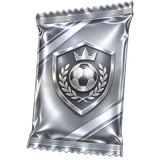
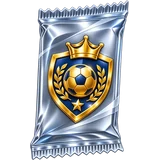
Arte 3D generado con IA: iconos del menú, de pestañas y secciones, sobres y monedas
- Menú inferior, pestañas (equipo, liga, mercado, club) y títulos con iconos 3D.
- Tokens y dinero con la gema y las monedas de la ruleta.
- Sobres de bronce, plata y oro como imágenes (también en la ruleta y en la imagen del bot).

Claude-Session: https://claude.ai/code/session_01JSMFEyxoDu9E63CPmBrdLt

diff --git a/public/app.js b/public/app.js
@@ -53,10 +53,14 @@ const NAV = {
   mercado: DUO('<path d="M4 8.5h13.5"/><path d="m14 5 3.5 3.5L14 12"/><path d="M20 15.5H6.5"/><path d="m10 12-3.5 3.5L10 19"/>'),
   club: DUO('<path d="M12 3 4.5 5.8v6c0 4.4 3.1 7.6 7.5 9.2 4.4-1.6 7.5-4.8 7.5-9.2v-6z" fill="currentColor" fill-opacity=".22"/><path d="M12 3v18M4.6 11h14.8"/>')
 };
+/* iconos 3D de las pestañas y secciones (generados con IA, en img/ui) */
+const SUBI = { xi: 'ui/pizarra', squad: 'ui/nav-equipo', train: 'ruleta/r9', tabla: 'ui/nav-liga', jornadas: 'ui/calendario', copa: 'comp/copa', champions: 'comp/champions', muro: 'ui/megafono', goles: 'premios/bota', clubes: 'ui/nav-club', subastas: 'ui/mazo', sobres: 'ui/sobre-oro', libres: 'ui/prismaticos', equipos: 'ui/nav-mercado', ofertas: 'ui/apreton', eco: 'ui/finanzas', inst: 'ui/grua', vit: 'ui/vitrina', tok: 'ruleta/r5', club: 'ui/nav-club' };
+const subI = k => SUBI[k] ? `<img class="si" src="img/${SUBI[k]}.webp" alt="" aria-hidden="true">` : '';
+const hI = n => `<img class="hi" src="img/ui/${n}.webp" alt="" aria-hidden="true">`;
 /* iconos propios: gema de tokens y moneda de euro, dibujados a mano */
 const IC = {
-  gem: '<svg class="ic" viewBox="0 0 24 24" aria-hidden="true"><path d="M6.6 3.5h10.8L21.5 9 12 21 2.5 9z" fill="#1aa85a"/><path d="M2.5 9h19L12 21z" fill="#0e7c41"/><path d="M6.6 3.5 8.7 9h6.6l2.1-5.5z" fill="#6ef0a2"/><path d="M8.7 9 12 21l3.3-12z" fill="#22c46b"/><path d="M6.6 3.5 2.5 9h6.2zM17.4 3.5 21.5 9h-6.2z" fill="#3ddc84"/><path d="M6.6 3.5h10.8L21.5 9 12 21 2.5 9z" fill="none" stroke="#052e17" stroke-width="1.1" stroke-linejoin="round"/><path d="M9 5.2h3" stroke="#e6fff0" stroke-width="1.3" stroke-linecap="round"/></svg>',
-  coin: '<svg class="ic" viewBox="0 0 24 24" aria-hidden="true"><ellipse cx="12" cy="13.6" rx="9" ry="8.4" fill="#a85f00"/><ellipse cx="12" cy="12" rx="9" ry="8.4" fill="#ffc23d"/><ellipse cx="12" cy="12" rx="6.6" ry="6.1" fill="#f5a20c"/><path d="M14.6 8.9a3.6 3.6 0 1 0 0 6.2M8.3 11h4.6M8.3 13.1h4.6" fill="none" stroke="#fff3c4" stroke-width="1.6" stroke-linecap="round"/><path d="M12 3.6a9 8.4 0 0 1 8.2 5" fill="none" stroke="#fff3c4" stroke-width="1" stroke-linecap="round" opacity=".7"/></svg>',
+  gem: '<img class="ic ic3" src="img/ruleta/r5.webp" alt="" aria-hidden="true">',
+  coin: '<img class="ic ic3" src="img/ruleta/r3.webp" alt="" aria-hidden="true">',
   play: '<svg class="ic" viewBox="0 0 24 24" aria-hidden="true"><path d="M7 4.5v15l12.5-7.5z" fill="currentColor"/></svg>',
   x: '<svg class="ic" viewBox="0 0 24 24" aria-hidden="true"><path d="M6 6l12 12M18 6 6 18" stroke="currentColor" stroke-width="2.4" stroke-linecap="round"/></svg>',
   med: '<svg class="ic" viewBox="0 0 24 24" aria-hidden="true"><rect x="3" y="3" width="18" height="18" rx="4" fill="#ec4d55"/><path d="M12 7v10M7 12h10" stroke="#fff" stroke-width="3" stroke-linecap="round"/></svg>',
@@ -384,7 +388,7 @@ function objectiveHTML() {
   if (!D.my) return '';
   const o = objective(D.myIdx, D.Sx);
   const st = o.done ? (o.met ? `<b class="pos-amt">¡Cumplido!</b> +${money(OBJ_PRIZE.cash)} y +${OBJ_PRIZE.tok} tokens` : '<b class="neg-amt">No cumplido</b>. La directiva espera más la próxima temporada.') : o.pos ? `Vas ${o.pos}º · ${o.onTrack ? '<b class="pos-amt">dentro del objetivo</b>' : '<b class="neg-amt">fuera del objetivo</b>'}` : 'Empieza la temporada.';
-  return `<section class="panel obj">${prizeImg('medalla', 64)}<div><h3>Objetivo de la directiva</h3><p class="objt">${o.txt}</p><p class="small mute">${st}${o.done ? '' : ` · Premio: ${money(OBJ_PRIZE.cash)} y ${OBJ_PRIZE.tok} ${IC.gem}`}</p></div></section>`;
+  return `<section class="panel obj">${prizeImg('medalla', 64)}<div><h3>${hI('diana')}Objetivo de la directiva</h3><p class="objt">${o.txt}</p><p class="small mute">${st}${o.done ? '' : ` · Premio: ${money(OBJ_PRIZE.cash)} y ${OBJ_PRIZE.tok} ${IC.gem}`}</p></div></section>`;
 }
 /* prensa de la liga: noticias que publica el bot (imágenes de los medios ficticios y crónicas en texto) */
 const agoTxt = t => { const m = Math.round((Date.now() - t) / 60000); return m < 1 ? 'ahora' : m < 60 ? 'hace ' + m + ' min' : m < 1440 ? 'hace ' + Math.round(m / 60) + ' h' : 'hace ' + Math.round(m / 1440) + ' d'; };
@@ -394,14 +398,14 @@ function prensaHTML() {
   const item = x => x.img
     ? `<button class="prensa-it" data-act="noticia" data-arg="${esc(x.id)}"><img src="${esc(x.img)}" alt="${esc(x.caption || 'Noticia')}" loading="lazy"><span><b>${esc(x.caption || '')}</b><small class="mute">${agoTxt(x.t)}</small></span></button>`
     : `<button class="prensa-it txt" data-act="noticia" data-arg="${esc(x.id)}"><span><b>${esc(x.caption || 'Crónica')}</b><small class="mute">${agoTxt(x.t)}</small><p>${esc(String(x.text || '').slice(0, 220))}${String(x.text || '').length > 220 ? '…' : ''}</p></span></button>`;
-  return `<section class="panel"><div class="ph"><h3>Prensa de la liga</h3><small class="mute">${list.length ? list.length + ' noticias' : ''}</small></div>
+  return `<section class="panel"><div class="ph"><h3>${hI('periodico')}Prensa de la liga</h3><small class="mute">${list.length ? list.length + ' noticias' : ''}</small></div>
   ${list.length ? `<div class="prensa" tabindex="0" aria-label="Noticias recientes">${list.map(item).join('')}</div>` : '<p class="mute small">Aquí saldrán las portadas, rumores y crónicas de la liga. Las publica el bot cuando la liga está vinculada a vuestro grupo de Telegram (Club → Avisos por Telegram).</p>'}</section>`;
 }
 /* muro de la liga: mensajes cortos entre los amigos */
 function muroHTML(limit) {
   const msgs = Object.values(S.muro || {}).sort((a, b) => b.t - a.t).slice(0, limit);
   const ago = t => { const m = Math.round((Date.now() - t) / 60000); return m < 1 ? 'ahora' : m < 60 ? 'hace ' + m + ' min' : m < 1440 ? 'hace ' + Math.round(m / 60) + ' h' : 'hace ' + Math.round(m / 1440) + ' d'; };
-  return `<section class="panel"><div class="ph"><h3>Muro de la liga</h3>${limit < 50 ? '<button class="btn sm ghost" data-act="go" data-arg="liga:muro">Ver todo</button>' : ''}</div>
+  return `<section class="panel"><div class="ph"><h3>${hI('megafono')}Muro de la liga</h3>${limit < 50 ? '<button class="btn sm ghost" data-act="go" data-arg="liga:muro">Ver todo</button>' : ''}</div>
   ${S.canWrite && D.my ? `<div class="muro-f"><input type="text" id="muro-txt" maxlength="180" placeholder="Pica a tus amigos…" aria-label="Mensaje"><button class="btn sm y" data-act="muro">Enviar</button></div>` : ''}
   <ul class="muro">${msgs.map(x => { const t = S.teams[x.team]; return `<li>${t ? crest(t, 30) : ''}<div><b>${esc(t ? t.name : 'Míster')}</b> <small class="mute">${ago(x.t)}</small><p>${esc(x.txt)}</p></div></li>`; }).join('') || '<li class="mute small">Nadie ha escrito todavía. Rompe el hielo.</li>'}</ul></section>`;
 }
@@ -618,10 +622,7 @@ const zig = (n, h) => { const pts = []; for (let i = 0; i <= n; i++) pts.push(`$
 const PACK_CLIP = zig(22, 7);
 function packArt(kind, big) {
   const P = PACKS[kind];
-  return `<div class="pack pack-${kind}${big ? ' big' : ''}" style="clip-path:${PACK_CLIP}"><div class="pack-in">
-    <span class="pack-top">LIGA DE AMIGOS</span>
-    <svg class="pack-crest" viewBox="0 0 64 72" aria-hidden="true"><path d="M32 2L60 11V36C60 54 47 65 32 70C17 65 4 54 4 36V11Z" fill="rgba(0,0,0,.18)" stroke="rgba(255,255,255,.7)" stroke-width="2"/><circle cx="32" cy="35" r="13" fill="none" stroke="rgba(255,255,255,.85)" stroke-width="2.5"/><path d="M32 26l6 4.5-2.3 7h-7.4L26 30.5z" fill="rgba(255,255,255,.85)"/></svg>
-    <b class="pack-name">${P.name.replace('Sobre ', '')}</b><span class="pack-n">${P.n} ${P.n > 1 ? 'premios' : 'premio'}</span></div></div>`;
+  return `<div class="pack pack-img pack-${kind}${big ? ' big' : ''}"><img src="img/ui/sobre-${kind}.webp" alt="${P.name}" draggable="false"></div>`;
 }
 const rarity = o => o >= 86 ? 'crack' : o >= 80 ? 'oro' : o >= 75 ? 'plata' : 'bronce';
 function prizeCard(x) {
@@ -820,7 +821,7 @@ function header() {
   const my = D?.my, cash = my ? D.fin(D.myIdx).cash : null;
   const title = my ? `<span>${crest(my, 38)}</span><span><b>${esc(my.name)}</b><small>${esc(S.cfg.name)} · T${D.Sx} · J${Math.min(D.revealed.length + (D.live.length ? 1 : 0), D.total)}/${D.total}</small></span>` : `<span><b>${esc(S.cfg?.name || 'Liga de Amigos')}</b><small>${D ? 'Temporada ' + D.Sx + ' · ' + D.n + ' equipos' : 'Fútbol manager entre amigos'}</small></span>`;
   const vales = D && D.my ? Object.values((D.my.packs || {}).vale || {}).reduce((a, n) => a + (n > 0 ? n : 0), 0) : 0, nRul = D && D.my && rulState(D.my).freeOk ? 1 : 0;
-  const nAuc = newAuctions() + vales + (D && D.my && packState(D.my).freeOk ? 1 : 0), tabs = D ? `<nav class="tabs">${[['inicio', 'Inicio'], ['equipo', 'Equipo'], ['liga', 'Liga'], ['mercado', 'Mercado'], ['club', 'Club']].map(([k, l]) => `<button data-act="view" data-arg="${k}" aria-current="${S.view === k}">${NAV[k]}${l}${k === 'mercado' && nAuc ? `<span class="nbadge" aria-label="${nAuc} subastas nuevas">${nAuc}</span>` : ''}${k === 'inicio' && nRul ? '<span class="nbadge" aria-label="Tirada gratis en la ruleta">1</span>' : ''}</button>`).join('')}</nav>` : '';
+  const nAuc = newAuctions() + vales + (D && D.my && packState(D.my).freeOk ? 1 : 0), tabs = D ? `<nav class="tabs">${[['inicio', 'Inicio'], ['equipo', 'Equipo'], ['liga', 'Liga'], ['mercado', 'Mercado'], ['club', 'Club']].map(([k, l]) => `<button data-act="view" data-arg="${k}" aria-current="${S.view === k}"><img class="nv" src="img/ui/nav-${k}.webp" alt="" aria-hidden="true">${l}${k === 'mercado' && nAuc ? `<span class="nbadge" aria-label="${nAuc} subastas nuevas">${nAuc}</span>` : ''}${k === 'inicio' && nRul ? '<span class="nbadge" aria-label="Tirada gratis en la ruleta">1</span>' : ''}</button>`).join('')}</nav>` : '';
   return `<header class="top"><div class="row"><div class="club">${title}</div>${cash != null ? `<button class="tokchip" data-act="go" data-arg="club:tok" aria-label="Tokens: ${D.tok(D.myIdx)}">${IC.gem}${D.tok(D.myIdx)}</button><div class="cash ${cash < 0 ? 'neg' : ''}" aria-label="Caja">${IC.coin}${money(cash)}</div>` : ''}</div>${tabs}</header>`;
 }
 function body() {
@@ -952,7 +953,7 @@ async function claim(id) {
 function teamView() {
   if (!D.my) return pickTeamView();
   const subs = [['xi', 'Alineación'], ['squad', 'Plantilla'], ['train', 'Entreno']];
-  return `<div class="sub">${subs.map(([k, l]) => `<button data-act="sub" data-arg="${k}" aria-pressed="${S.sub === k}">${l}</button>`).join('')}</div>` + (S.sub === 'squad' ? squadView() : S.sub === 'train' ? trainView() : lineupView());
+  return `<div class="sub">${subs.map(([k, l]) => `<button data-act="sub" data-arg="${k}" aria-pressed="${S.sub === k}">${subI(k)}${l}</button>`).join('')}</div>` + (S.sub === 'squad' ? squadView() : S.sub === 'train' ? trainView() : lineupView());
 }
 function ensureLin() {
   const t = D.my, ctx = D.ctx(t);
@@ -1076,7 +1077,7 @@ function matchRow(m, doc, k) {
 }
 function leagueView() {
   const subs = [['tabla', 'Tabla'], ['jornadas', 'Jornadas'], ['copa', 'Copa'], ['champions', 'Champions'], ['muro', 'Muro'], ['goles', 'Goleadores'], ['clubes', 'Clubes']];
-  let html = `<div class="sub">${subs.map(([k, l]) => `<button data-act="lsub" data-arg="${k}" aria-pressed="${S.lsub === k}">${l}</button>`).join('')}</div>`;
+  let html = `<div class="sub">${subs.map(([k, l]) => `<button data-act="lsub" data-arg="${k}" aria-pressed="${S.lsub === k}">${subI(k)}${l}</button>`).join('')}</div>`;
   if (S.lsub === 'jornadas') {
     const md = S.mdSel = S.mdSel || Math.min(D.total, Math.max(1, D.live.length ? D.live[0].md : D.revealed.length + (D.done ? 0 : 1)));
     const doc = D.cur.find(d => d.md === md);
@@ -1112,7 +1113,7 @@ function marketView() {
   if (!D.my) return pickTeamView();
   if (S.msub === 'subastas') { try { localStorage.setItem('aucSeen', Date.now()); } catch (e) {} }
   const subs = [['subastas', 'Subastas'], ['sobres', 'Sobres' + (packState(D.my).freeOk ? ' •' : '')], ['libres', 'Libres'], ['equipos', 'Rivales'], ['ofertas', 'Ofertas']];
-  let html = `<div class="sub">${subs.map(([k, l]) => `<button data-act="msub" data-arg="${k}" aria-pressed="${S.msub === k}">${l}</button>`).join('')}</div>`;
+  let html = `<div class="sub">${subs.map(([k, l]) => `<button data-act="msub" data-arg="${k}" aria-pressed="${S.msub === k}">${subI(k)}${l}</button>`).join('')}</div>`;
   if (S.msub === 'sobres') {
     html += packsView();
   } else if (S.msub === 'subastas') {
@@ -1144,7 +1145,7 @@ function clubView() {
   const t = D.my, f = D.fin(D.myIdx), lvl = E.stLvl(t), nextL = E.STADIUM[(t.stadium || 0) + 1], tok = D.tok(D.myIdx), fans = D.fans(D.myIdx);
   const sub = S.csub || 'eco';
   const subs = [['eco', 'Finanzas'], ['inst', 'Estadio'], ['vit', 'Vitrina'], ['tok', 'Tokens'], ['club', 'Mi club']];
-  let html = `<div class="sub">${subs.map(([k, l]) => `<button data-act="csub" data-arg="${k}" aria-pressed="${sub === k}">${l}</button>`).join('')}</div>`;
+  let html = `<div class="sub">${subs.map(([k, l]) => `<button data-act="csub" data-arg="${k}" aria-pressed="${sub === k}">${subI(k)}${l}</button>`).join('')}</div>`;
   if (sub === 'eco') {
     const led = (t.ledger || []).slice(-8).reverse();
     const lastHome = [...D.all].reverse().map(d => d.m.find(m => m.h === D.myIdx)).find(Boolean);
@@ -1178,7 +1179,7 @@ function clubView() {
   } else if (sub === 'tok') {
     const d = t.daily || {}, todayK = today(), claimed = d.d === todayK, streak = d.d === yesterday() ? (d.streak || 0) + 1 : 1;
     const shop = [['Forma al 100%', '2 ' + IC.gem, 'En la ficha del jugador'], ['Curar una lesión', '4 ' + IC.gem, 'En la ficha del jugador'], ['Entreno extra', '2 ' + IC.gem, 'En Equipo · Entreno'], ['Ojeador premium', '3 ' + IC.gem, 'En Club · Mi club'], ['Terminar obras', '2 ' + IC.gem + ' / 12 h', 'En Club · Estadio']];
-    html += `<div class="grid"><section class="panel"><div class="ph"><h3>Tus tokens</h3><span class="big">${tok}</span></div><ul class="facts"><li>+2 por victoria</li><li>+1 por empate</li><li>+20 por ganar la liga</li><li>Premio diario</li></ul>
+    html += `<div class="grid"><section class="panel"><div class="ph"><h3>${hI('cofre')}Tus tokens</h3><span class="big">${tok}</span></div><ul class="facts"><li>+2 por victoria</li><li>+1 por empate</li><li>+20 por ganar la liga</li><li>Premio diario</li></ul>
     <button class="btn y" data-act="daily" ${claimed ? 'disabled' : ''}>${claimed ? 'Premio de hoy recogido' : `Recoger premio diario · +${Math.min(5, streak)}`}</button>${!claimed && streak > 1 ? `<p class="small mute">Racha de ${streak} días seguidos.</p>` : ''}</section>
     <section class="panel"><h3>En qué gastarlos</h3><ul class="ledger">${shop.map(([a, b2, c]) => `<li><span><b>${a}</b><br><span class="small mute">${c}</span></span><b class="tk">${b2}</b></li>`).join('')}</ul></section></div>`;
   } else {

diff --git a/public/index.html b/public/index.html
@@ -600,6 +600,20 @@ body[data-tutonav=inicio] nav.tabs [data-arg=inicio],body[data-tutonav=equipo] n
 @keyframes rlSpin{to{transform:rotate(360deg)}}
 @keyframes rlFloat{50%{transform:translateY(-6px) scale(1.03)}}
 @media(prefers-reduced-motion:reduce){.rl-b,.rl-win .rl-rays,.rl-win img{animation:none}.rl-b{opacity:.7}}
+
+/* arte 3D (iconos y sobres generados con IA) */
+.ic3{object-fit:contain}
+nav.tabs button img.nv{width:30px;height:30px;object-fit:contain;filter:grayscale(.55) brightness(.8);transition:filter .15s,transform .15s}
+nav.tabs button[aria-current=true] img.nv{filter:none;transform:scale(1.12)}
+nav.tabs button:hover img.nv{filter:none}
+@media(min-width:900px){nav.tabs button img.nv{width:22px;height:22px}}
+.sub button{display:inline-flex;align-items:center;gap:6px}
+.sub img.si{width:20px;height:20px;object-fit:contain;flex:none;filter:grayscale(.5) brightness(.85)}
+.sub button[aria-pressed=true] img.si{filter:none}
+h3 img.hi{width:26px;height:26px;object-fit:contain;vertical-align:-6px;margin-right:6px}
+.pack.pack-img{background:none;clip-path:none;box-shadow:none;overflow:visible}
+.pack.pack-img::after{display:none}
+.pack.pack-img img{display:block;width:100%;height:100%;object-fit:contain;filter:drop-shadow(0 12px 18px rgba(0,0,0,.55));-webkit-user-drag:none;user-select:none}
 /* acceso (versión web) */
 body.gated #app{display:none}
 .gate{position:fixed;inset:0;z-index:100;overflow:auto;display:flex;align-items:flex-start;justify-content:center;padding:max(24px,env(safe-area-inset-top)) 14px 32px;background:radial-gradient(120% 70% at 50% 0%,rgba(51,173,82,.18),transparent 60%),var(--bg)}

diff --git a/bot/news/style.css b/bot/news/style.css
@@ -273,3 +273,5 @@ body{background:#111;font-family:P,'DejaVu Sans','Noto Color Emoji',sans-serif}
 #nR .pp{left:44%;top:-4.5%;width:12%;filter:drop-shadow(0 6px 8px rgba(0,0,0,.6))}
 #nR .foot{margin-top:auto;font-size:30px;font-weight:600;background:rgba(255,255,255,.08);border:1px solid rgba(255,255,255,.18);border-radius:20px;padding:18px 30px}
 #nR .foot b{color:#ffd65a}
+
+#nS .col .pk{display:block;width:100%;filter:drop-shadow(0 30px 40px rgba(0,0,0,.6))}
